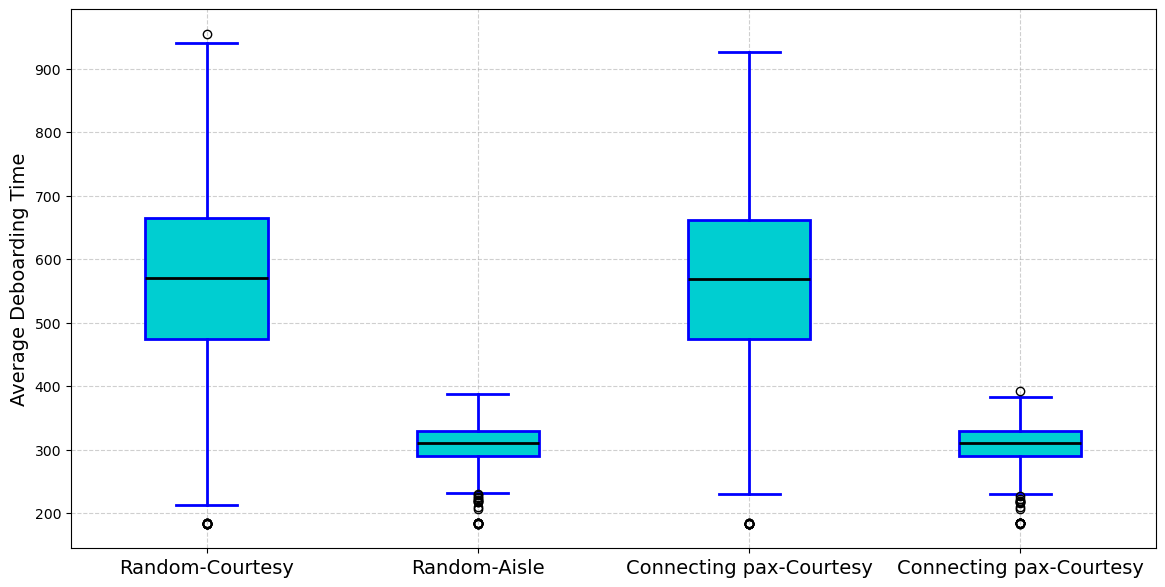
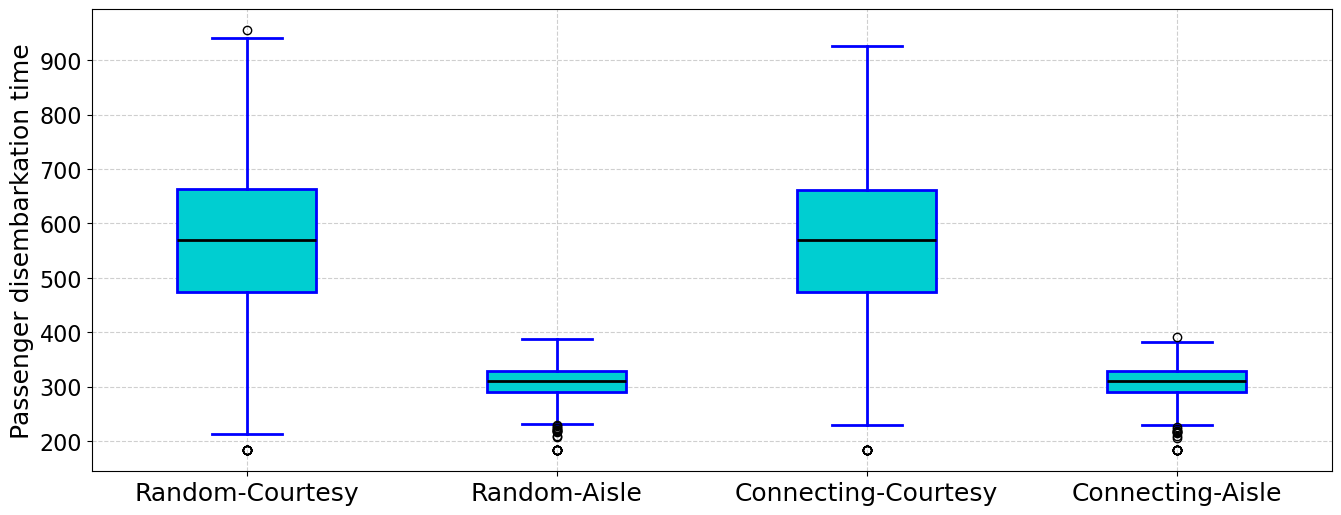
start cleaning code create yaml config file

diff --git a/plot_results.py b/plot_results.py
@@ -35,7 +35,7 @@ def display_missed_pax_strategies(savefig=False):
             for i in range(len(indexes)):
                 y_missed_pax[indexes[i]].append(df['Total Missed Pax'].values[i])
 
-    fig, ax = plt.subplots(figsize=(14, 7))
+    fig, ax = plt.subplots(figsize=(16, 6))
 
     for key in y_missed_pax.keys():
         print(key, np.mean(y_missed_pax[key]))
@@ -46,10 +46,11 @@ def display_missed_pax_strategies(savefig=False):
                whiskerprops=dict(color='black', linewidth=1.5),
                capprops=dict(color='black', linewidth=1.5))
 
-    x_tick_labels = ["Random-Courtesy", "Random-Aisle", "Connecting pax-Courtesy", "Connecting pax-Courtesy"]
-    ax.set_xticklabels(x_tick_labels, fontsize=14)
+    x_tick_labels = ["Random-Courtesy", "Random-Aisle", "Connecting-Courtesy", "Connecting-Aisle"]
+    ax.set_xticklabels(x_tick_labels, fontsize=18)
+    plt.tick_params(axis='y', labelsize=16)
 
-    ax.set_ylabel('Total Passengers Missing their Flights', fontsize=14)
+    ax.set_ylabel('Nb of passengers missing their flights', fontsize=18)
     ax.grid(True, linestyle='--', alpha=0.6)
 
     if savefig:
@@ -74,17 +75,18 @@ def display_boxplot_deboarding_time(savefig=False):
 
     # New color palette
     colors = ['darkturquoise', 'blue', 'black', 'blue']  # Improved color palette
-    fig, ax = plt.subplots(figsize=(14, 7))
+    fig, ax = plt.subplots(figsize=(16, 6))
     ax.boxplot(y_missed_pax.values(), patch_artist=True,
                boxprops=dict(facecolor=colors[0], color=colors[1], linewidth=2),
                medianprops=dict(color=colors[2], linewidth=2),
                whiskerprops=dict(color=colors[3], linewidth=2),
                capprops=dict(color=colors[3], linewidth=2))
 
-    x_tick_labels = ["Random-Courtesy", "Random-Aisle", "Connecting pax-Courtesy", "Connecting pax-Courtesy"]
-    ax.set_xticklabels(x_tick_labels, fontsize=14)
+    x_tick_labels = ["Random-Courtesy", "Random-Aisle", "Connecting-Courtesy", "Connecting-Aisle"]
+    ax.set_xticklabels(x_tick_labels, fontsize=18)
+    plt.tick_params(axis='y', labelsize=16)
 
-    ax.set_ylabel('Average Deboarding Time', fontsize=14)
+    ax.set_ylabel('Passenger disembarkation time', fontsize=18)
     ax.grid(True, linestyle='--', alpha=0.6)
 
     if savefig:
@@ -98,7 +100,6 @@ def display_deboarding_time_bar(savefig=False):
     files = get_all_files_in_folder(RESULT_FOLDER)
     y_deboarding_time = {}
 
-    # Extracting the deboarding time data
     for csv_file in files:
         df = pd.read_csv(RESULT_FOLDER + csv_file)
         indexes = df[['Seat Allocation', 'Deboarding Strategy']].agg('-'.join, axis=1).values
@@ -109,29 +110,22 @@ def display_deboarding_time_bar(savefig=False):
             for i in range(len(indexes)):
                 y_deboarding_time[indexes[i]] += df['Average Deboarding Time'].values[i]
 
-    # Calculate the average deboarding time
     for key in y_deboarding_time.keys():
         y_deboarding_time[key] /= len(files)
 
-    # Plotting the improved bar plot
     fig, ax = plt.subplots(figsize=(14, 7))
 
-    # Using a gradient color for the bars
     ax.bar(y_deboarding_time.keys(), y_deboarding_time.values(), color="darkturquoise")
 
+    ax.set_ylabel('Passenger Deboarding Time (seconds)', fontsize=16, weight='bold')
 
-
-    # Adding a grid and improving axis labels
-    ax.set_ylabel('Passenger Deboarding Time (seconds)', fontsize=14, weight='bold')
-
-    x_tick_labels = ["Random-Courtesy", "Random-Aisle", "Connecting pax-Courtesy", "Connecting pax-Courtesy"]
-    ax.set_xticklabels(x_tick_labels, fontsize=14)
+    x_tick_labels = ["Random-Courtesy", "Random-Aisle", "Connecting-Courtesy", "Connecting-Aisle"]
+    ax.set_xticklabels(x_tick_labels, fontsize=16)
     ax.grid(True, linestyle='--', alpha=0.6)
+    plt.tick_params(axis='y', labelsize=16)
 
-    # Setting tighter layout to fit labels
     plt.tight_layout()
 
-    # Save or display the plot
     if savefig:
         plt.savefig(f"medias/barplot/{DAY_LABEL}_deboarding_time_{int(GATE_CLOSE_TIME/60)}min_gate_closure.png", bbox_inches='tight')
     else:
@@ -154,6 +148,8 @@ def display_bar_plot_missed_pax_prereserved_seats(folder_path, savefig=False):
 
     # Plotting the improved bar plot
     fig, ax = plt.subplots(figsize=(14, 7))
+
+    print(y_missed_pax)
 
     # Using a gradient color for the bars
     ax.bar(y_missed_pax.keys(), y_missed_pax.values(), width = 15, color="darkcyan")
@@ -179,9 +175,9 @@ def display_bar_plot_missed_pax_prereserved_seats(folder_path, savefig=False):
 
 
 if __name__ == '__main__':
-    display_missed_pax_strategies(savefig=False)
-    display_boxplot_deboarding_time(savefig=False)
+    display_missed_pax_strategies(savefig=True)
+    display_boxplot_deboarding_time(savefig=True)
     display_deboarding_time_bar(savefig=False)
     # display_deboarding_time_line()
-    # folder_result = "results/max_flight_day/simulations_evolution_percentage_prereserved_seats/"
-    # display_bar_plot_missed_pax_prereserved_seats(folder_result, savefig=True)
+    folder_result = "results/max_flight_day/simulations_evolution_percentage_prereserved_seats/"
+    display_bar_plot_missed_pax_prereserved_seats(folder_result, savefig=False)

diff --git a/flight_schedule.py b/flight_schedule.py
@@ -92,9 +92,9 @@ def process_all_arrivals(filename):
         id_arrival_flight, nb_pax = arrival_row.name, arrival_row['actual_passenger_count']
         new_entry = pd.DataFrame({"arrival_flight_id": [id_arrival_flight], "actual_passenger_count": [nb_pax]})
         df_arrival_flights = pd.concat([df_arrival_flights, new_entry], ignore_index=True)
-    df_arrival_flights.to_csv(DATA_FOLDER + f"df_arrival_flights_{MAX_HOUR_CONNECTING_TIME}h_max_connecting_time.csv",
+    df_arrival_flights.to_csv(DATA_FOLDER + f"df_arrival_flights_{MAX_HOUR_CONNECTING_TIME}h_max_connecting_time_test.csv",
                               index=False)
-    connecting_pax_df.to_csv(DATA_FOLDER + f"connecting_passengers_{MAX_HOUR_CONNECTING_TIME}h_max_connecting_time.csv",
+    connecting_pax_df.to_csv(DATA_FOLDER + f"connecting_passengers_{MAX_HOUR_CONNECTING_TIME}h_max_connecting_time_test.csv",
                              index=False)
     return connecting_pax_df
 
@@ -154,7 +154,7 @@ def generate_connecting_passenger_one_flight(arrival_row, df_departures: pd.Data
     return arrival_row, connecting_pax_df, nb_actual_connecting_pax
 
 
-def display_connecting_pax_distribution():
+def display_connecting_pax_distribution(savefig=False):
     df = pd.read_csv(DATA_FOLDER + 'connecting_passengers_3h_max_connecting_time.csv')
 
     df['transfer_time_theoretical_minutes'] = df['transfer_time_theoretical'] / 60
@@ -187,9 +187,11 @@ def display_connecting_pax_distribution():
     ax[1].tick_params(axis='both', which='major', labelsize=tick_fontsize)
 
     plt.tight_layout()
-    plt.savefig(
-        f"medias/connecting_passengers_distribution/{DAY_LABEL}/transfer_time_distribution_{DAY_LABEL}{MAX_HOUR_CONNECTING_TIME}h_max_conencting_time.png")
-    # plt.show()
+    if savefig:
+        plt.savefig(
+            f"medias/connecting_passengers_distribution/{DAY_LABEL}/transfer_time_distribution_{DAY_LABEL}{MAX_HOUR_CONNECTING_TIME}h_max_conencting_time.png")
+    else:
+        plt.show()
 
 
 def compute_buffer_times(df):
@@ -201,7 +203,7 @@ def compute_buffer_times(df):
     return df
 
 
-def display_buffer_time_distribution():
+def display_buffer_time_distribution(savefig=False):
     df = pd.read_csv(DATA_FOLDER + 'connecting_passengers_3h_max_connecting_time.csv')
 
     df = compute_buffer_times(df)
@@ -233,9 +235,11 @@ def display_buffer_time_distribution():
     ax[1].tick_params(axis='both', which='major', labelsize=tick_fontsize)
 
     plt.tight_layout()
-    plt.savefig(
+    if savefig:
+        plt.savefig(
         f"medias/connecting_passengers_distribution/{DAY_LABEL}/buffer_time_distribution_{DAY_LABEL}_{MAX_HOUR_CONNECTING_TIME}h_max_conencting_time.png")
-    # plt.show()
+    else:
+        plt.show()
 
 
 def compute_main_characteristics_day(filename):
@@ -277,12 +281,12 @@ if __name__ == "__main__":
 
     DATA_FOLDER = f"data/{DAY_LABEL}/"
 
-    # connecting_pax_df = process_all_arrivals(DATA_FOLDER + filename)
+    connecting_pax_df = process_all_arrivals(DATA_FOLDER + filename)
 
     # print("Connecting passengers DataFrame:")
     # print(connecting_pax_df)
-    # display_connecting_pax_distribution()
-    # display_buffer_time_distribution()
+    display_connecting_pax_distribution(savefig=False)
+    display_buffer_time_distribution(savefig=False)
 
     compute_main_characteristics_day(DATA_FOLDER + filename)
     compute_main_characteristics_connecting_passengers(DATA_FOLDER + "connecting_passengers_3h_max_connecting_time.csv")

diff --git a/prereserved_seats.py b/prereserved_seats.py
@@ -73,9 +73,8 @@ def check_for_duplicates(seats):
     return len(seats) != len(set(seats))
 
 
-def display_prereserved_seat_probability():
-    nb_rows, nb_cols = 20, 7
-
+def display_prereserved_seat_probability( nb_rows=20, nb_cols = 6, savefig=False):
+    nb_cols +=1 # to account for the aisle
     grid = generate_probability_matrix(nb_rows, nb_cols)
 
     grid = grid / np.sum(grid) * 100
@@ -85,7 +84,7 @@ def display_prereserved_seat_probability():
     cmap = plt.get_cmap('Reds')
     norm = mcolors.Normalize(vmin=0, vmax=vmax)
 
-    fig, ax = plt.subplots(figsize=(16, 8))  # Increased width for wider cells
+    fig, ax = plt.subplots(figsize=(20, 6))
     cax = ax.matshow(grid, cmap=cmap, norm=norm)
 
     ft = 14
@@ -115,9 +114,10 @@ def display_prereserved_seat_probability():
                 ax.text(r, c, f'{grid[c, r]:.1f}%', ha='center', va='center', color='black', fontsize=11)
 
     plt.xlabel('Row number', fontsize=ft)
-
-    # plt.savefig('medias/prereserved_seat_probability_distribution.png', bbox_inches="tight")
-    plt.show()
+    if savefig:
+        plt.savefig('medias/prereserved_seat_probability_distribution.png', bbox_inches="tight")
+    else:
+        plt.show()
 
 
 if __name__ == '__main__':
@@ -130,3 +130,5 @@ if __name__ == '__main__':
 
     res = assign_prereserved_seats(nb_pax_prereserved, nb_total_pax, probability_matrix=grid)
     print(res)
+
+    display_prereserved_seat_probability(30,6,savefig=True)

diff --git a/read_configuration.py b/read_configuration.py
@@ -1,0 +1,23 @@
+import yaml
+
+
+def load_config(file_path):
+    with open(file_path, 'r') as file:
+        config = yaml.safe_load(file)
+    return config
+
+
+# Example usage
+if __name__ == "__main__":
+    config_file = "configuration_deboarding.yaml"
+    config = load_config(config_file)
+
+    simulation_params = config['simulation_parameters']
+    aircraft_config = config['aircraft_configuration']
+    passenger_characteristics = config['passenger_flight_characteristics']
+
+    print(f"Buffer time for gate connections: {simulation_params['buffer_time_gate_connecting']} seconds")
+    print(f"Number of rows in the aircraft: {aircraft_config['nb_rows']}")
+    print(f"Percentage of passengers with luggage: "
+          f"{simulation_params['luggage_collection']['min_percentage_has_luggage']}% to "
+          f"{simulation_params['luggage_collection']['max_percentage_has_luggage']}%")

diff --git a/config_deboarding.py b/config_deboarding.py
@@ -38,12 +38,5 @@ MAX_PERCENTAGE_PRERESERVED_SEATS = 40 + 5  # add stochasticity to the pre-reserv
 T_MAX_SIMULATION = 10000  # in time steps
 NB_SIMULATION = 10
 
-#
-# IS_COURTESY_RULE = False
-# if IS_COURTESY_RULE:
-#     DISEMBARKING_RULE_NAME = "courtesy"
-# else:
-#     DISEMBARKING_RULE_NAME = "aisle_priority"
-#
 
 GATE_CLOSE_TIME = 20 * 60  # in seconds
